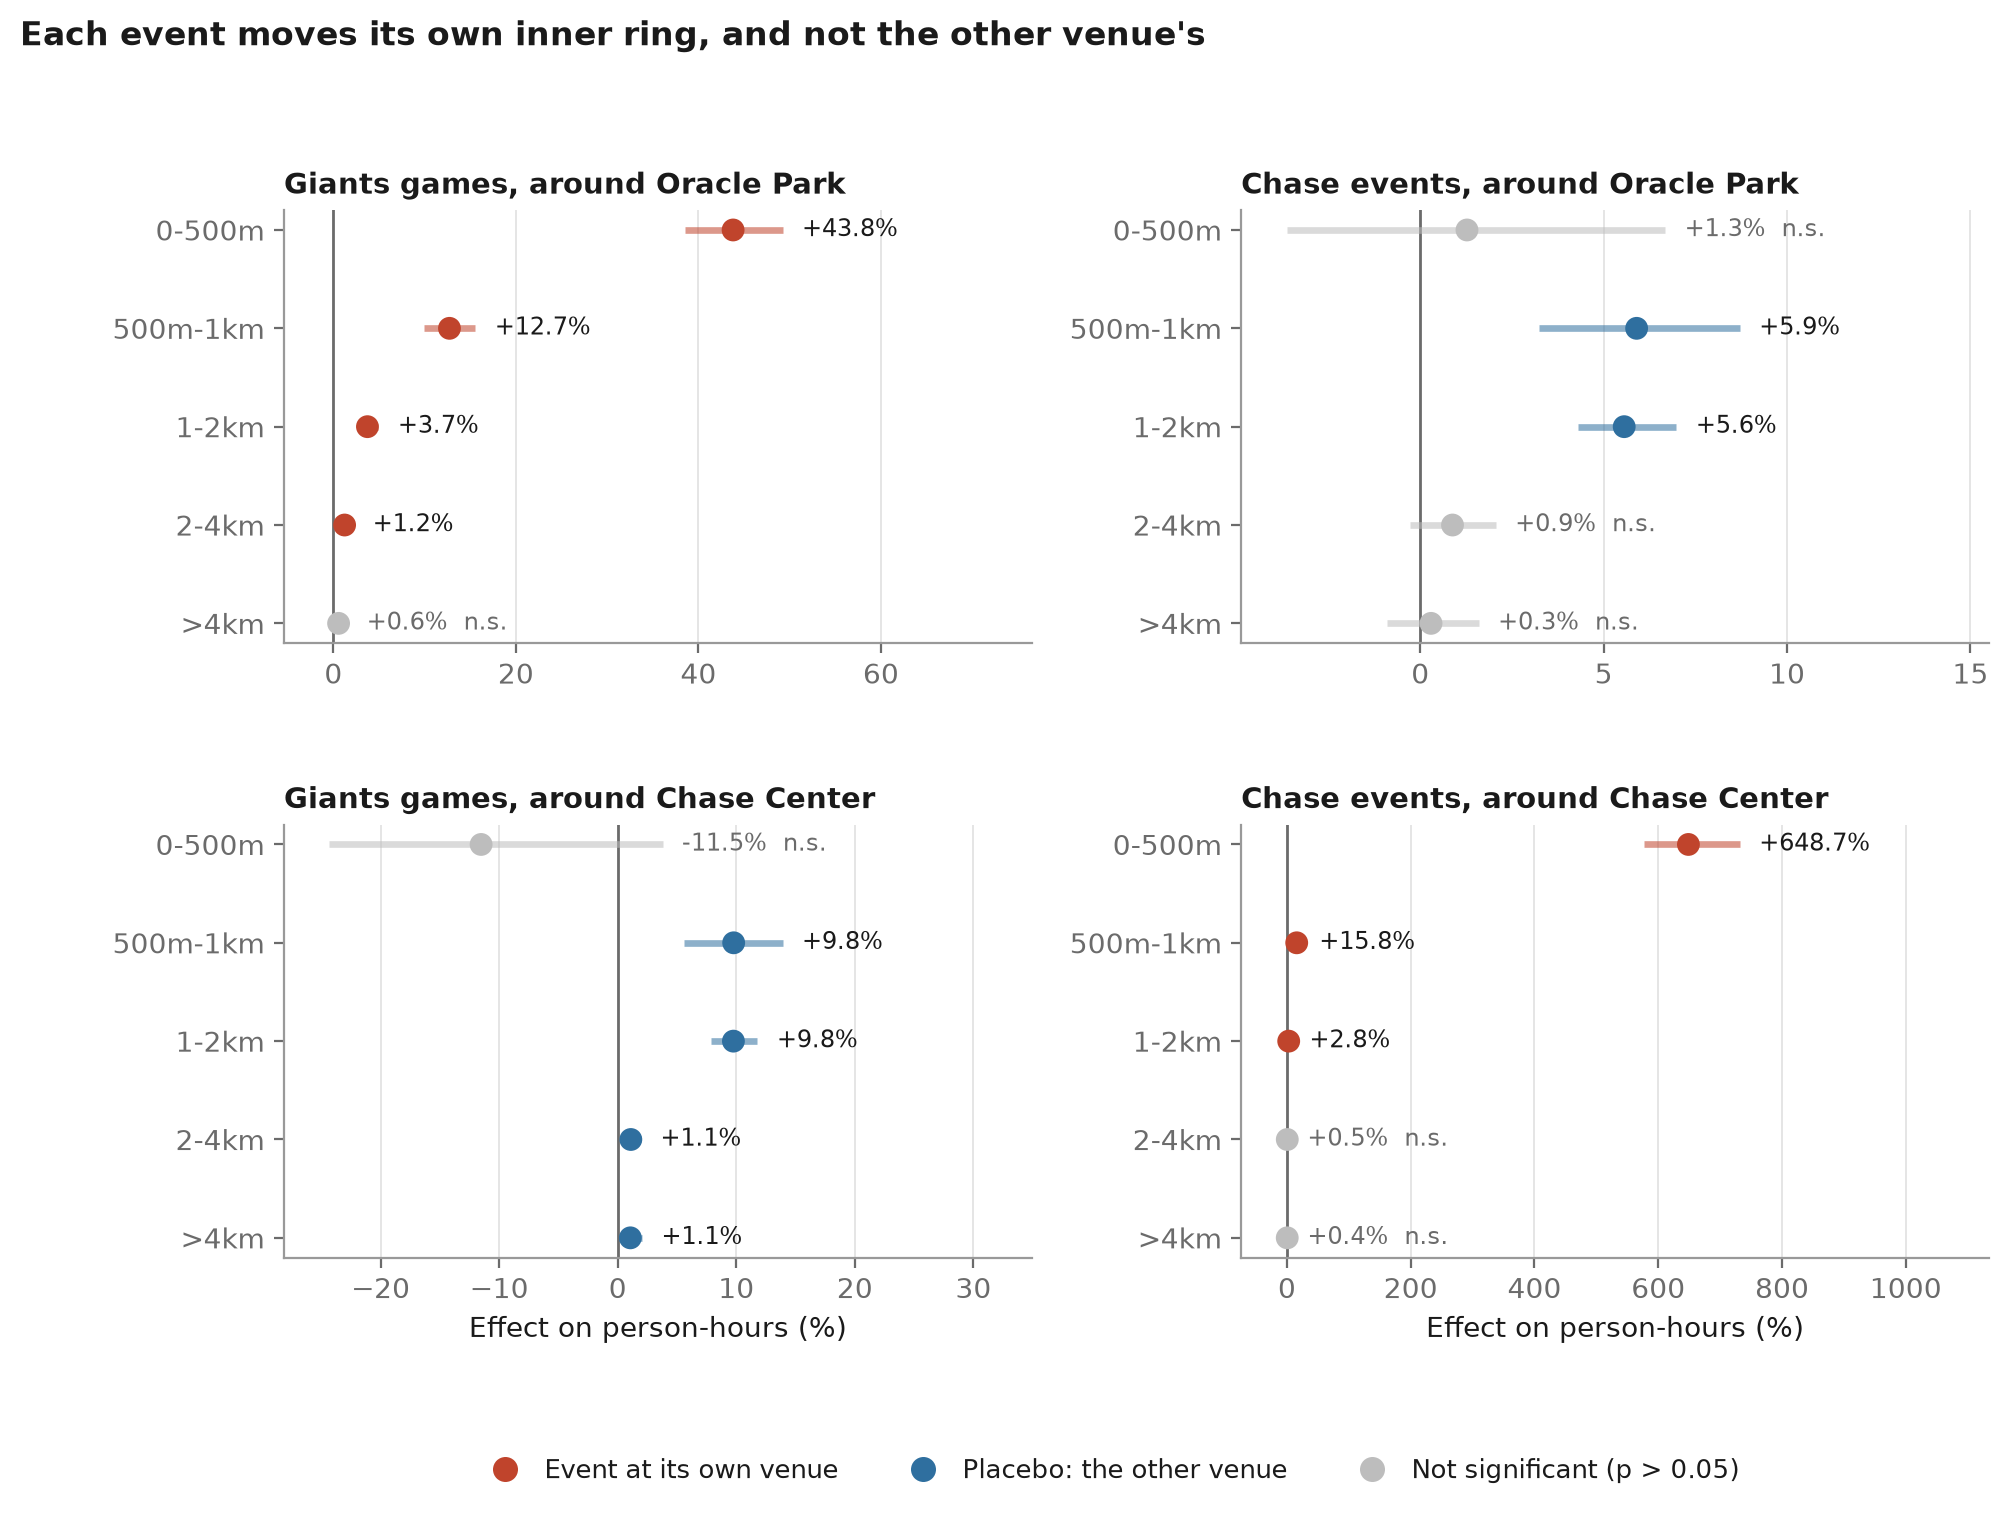
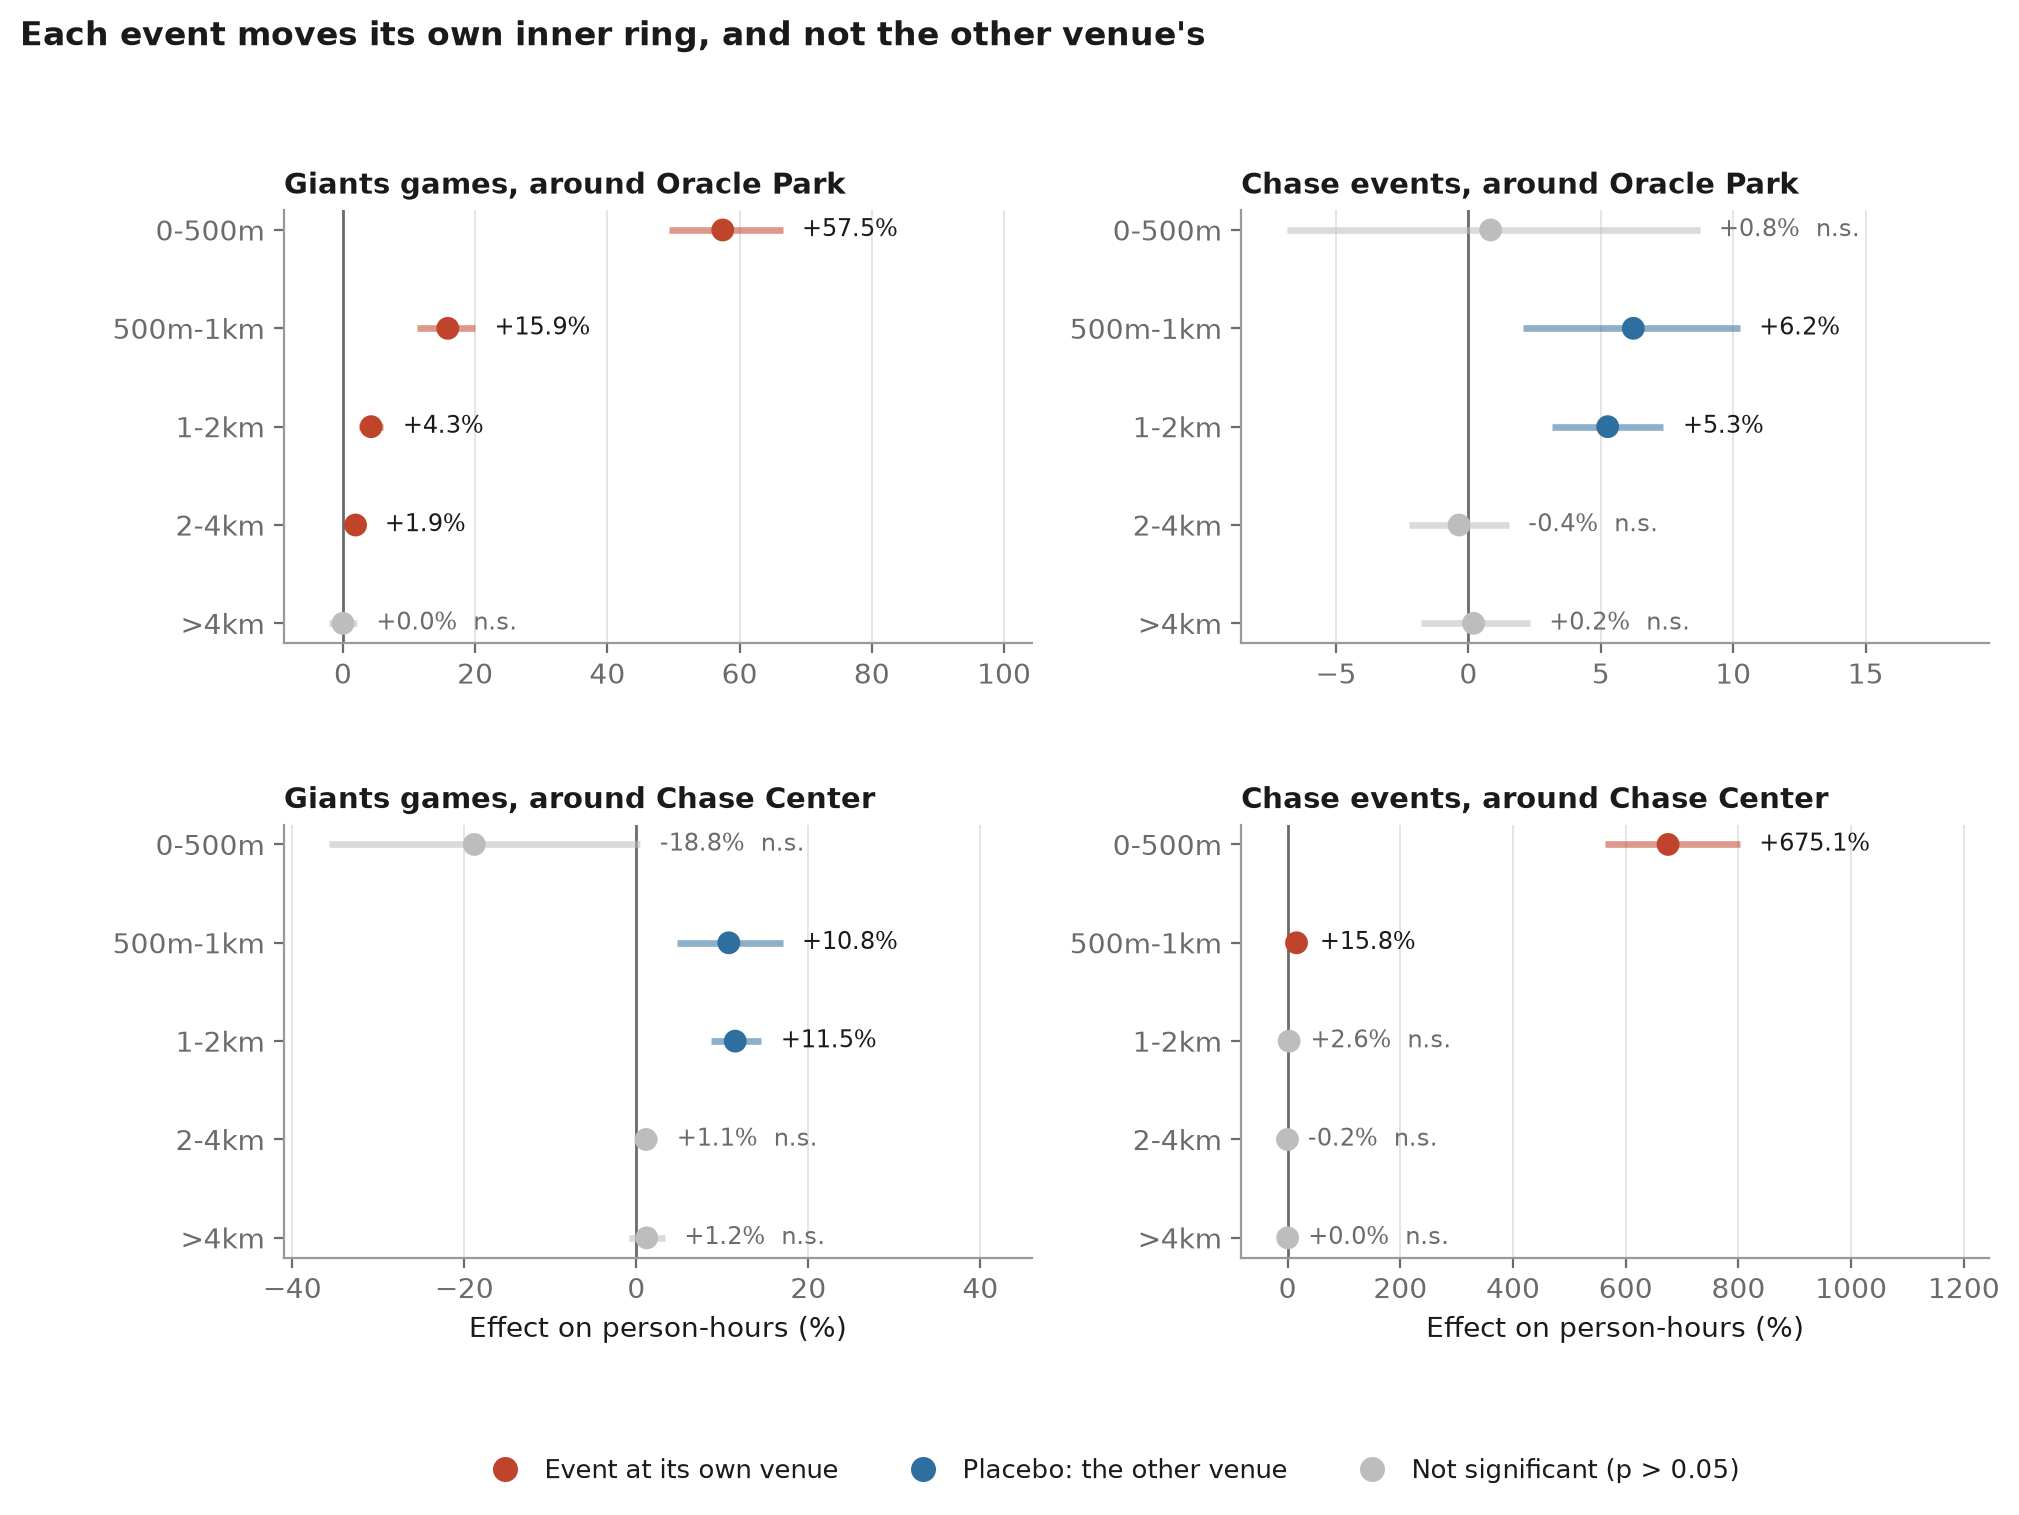
docs: re-render the report figures on the post-fix panel
PR #23 moved every headline number but did not re-render the figures, so the
checked-in set was drawn from the pre-fix panel. Six figures move.

Re-rendered from the rebuilt panel, no code change needed: fig03 diurnal
profile, fig04 covariate balance, fig10 missingness, fig11 covariate
correlation. fig01, fig02, fig09 and fig12 re-render byte-identical and are
left alone.

fig05 distance decay: its input, data/bronze_sf/tier3_crossover.json, has no
generator in the repo and was not on disk, so it was rebuilt by fitting Tier 1
and calling nowcast.tier3_venue.crossover at n_boot=1500. The core causal
result strengthens: Giants games lift Oracle's 0-500m ring +57.5% (was +43.8),
Chase events lift their own 0-500m ring +675.1% (was +648.7), and both placebo
panels stay non-significant, +0.8% and -18.8%.

fig06 feature ablation: literals refreshed from one experiment on the fixed
panel, same lgb_params(600, seed=0) and splits for all three arms, only the
feature list differing. 1.2369 / 1.0530 / 0.9372 test MAE against 1.2282 /
1.0307 / 0.9180. The k=8 column is not in rolling_baseline.parquet, so that arm
rebuilt it with the same window logic first rather than carrying a number from
the old run. PIPELINE.md's Tier 1 line is corrected to match.

Two figures are knowingly left stale, and the figures README and CAPTIONS.md
both now say so rather than letting them read as current. fig07 needs
tier2_ablation_seeds.json, which is 12 Tier 2 trainings. fig08 needs
[…]

diff --git a/src/eia_pipeline/eda/charts.py b/src/eia_pipeline/eda/charts.py
@@ -479,10 +479,14 @@ def feature_ablation() -> Path:
     baseline has the smallest of it, but the multi-depth model is better on every other
     axis and bias is within noise at this scale.
     """
+    # Re-run 2026-08-07 on the post-PR-#23 panel, all three arms in one experiment:
+    # same load(), same lgb_params(600, seed=0), same splits, only the feature list
+    # differs. The k=8 column is not in rolling_baseline.parquet, so that arm rebuilds
+    # it with the same window logic (ROWS BETWEEN 7 PRECEDING) before fitting.
     rows = [
-        ("Calendar + weather only", 1.1122, 1.2282, 0.627),
-        ("+ single k=8 baseline", 0.9658, 1.0307, 0.7222),
-        ("+ multi-depth baseline", 0.8655, 0.9180, 0.7569),
+        ("Calendar + weather only", 1.1177, 1.2369, 0.6210),
+        ("+ single k=8 baseline", 0.9761, 1.0530, 0.7156),
+        ("+ multi-depth baseline", 0.8722, 0.9372, 0.7495),
     ]
     labels = [r[0] for r in rows]
     val = np.array([r[1] for r in rows])

diff --git a/docs/reports/figures/README.md b/docs/reports/figures/README.md
@@ -40,6 +40,25 @@ Figures 6 and 8 carry their numbers as literals in `charts.py`, because the runs
 produced them are not re-runnable from local files. They match the ablation and dollars
 numbers recorded in `docs/PIPELINE.md`. If those are re-run, update the literals with them.
 
+## Freshness, as of 2026-08-07
+
+Figures 1 to 6 and 10 to 12 are current against the post-fix panel. Two are not, and both
+say so in `presentation-visuals/CAPTIONS.md` as well:
+
+- **Figure 7 is stale.** It needs `data/bronze_sf/tier2_ablation_seeds.json`, which is not
+  in the repo (`data/` is gitignored) and is not in the bucket. Regenerating it is 4 arms
+  x 3 seeds of Tier 2 training via `scripts/run_ablation_seeds.py`. Its qualitative claim,
+  that seed spread is wider than the gap between edge arms, is unaffected; its plotted
+  values all predate the Tier 2 retrain to test MAE 1.0548.
+- **Figure 8 is stale.** `BAND_EFFECTS` in `nowcast/game_dollars.py` is hardcoded from the
+  pre-fix effect layer, and `data/bronze_sf/sf_food_daily_dollars.parquet` is absent. The
+  0-500m band it was computed on has since moved from +37.3% to +57.5% and 2-4km became
+  significant, so the $85.5k per-game total is a floor that is now too low.
+
+Figure 5's input, `data/bronze_sf/tier3_crossover.json`, has no generator script in the
+repo. It is rebuilt by fitting Tier 1 and calling `nowcast.tier3_venue.crossover(model, df,
+n_boot=1500)`, which takes about five minutes end to end.
+
 ## Suggested order for a talk
 
 9, 10, 1, 12 are the data section — what the target looks like, what is missing, how the

diff --git a/docs/PIPELINE.md b/docs/PIPELINE.md
@@ -136,8 +136,10 @@ functionally related but far apart.
 
 Both models are trained on control hours with no event features at all, and neither one is a forecaster. The model has never seen a game and cannot have partly fitted one, so its residual on a game hour is causally readable. A model given event features would already have fitted the event, and the residual we measure the effect with would partly vanish into the fit.
 
-Tier 1 is the benchmark. Test MAE 0.9180, R-squared 0.7569, beating a naive
-cell-hour-of-week baseline by 32%.
+Tier 1 is the benchmark. Test MAE 0.9372, R-squared 0.7495. The pre-2026-08-06
+figures of 0.9180 and 0.7569 were partly borrowed from the `n_poi_live` leak that
+the treatment-and-covariate fixes closed, so the small regression here is the
+honest number rather than a worse model.
 
 Tier 2 is STGCN-style rather than DCRNN. Diffusion convolution models lagged
 spatial propagation, and we measured lag-1 spatial correlation at or slightly below
